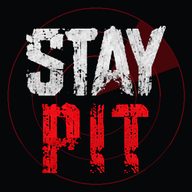
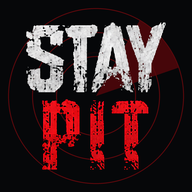
Icône STAYPIT recentrée verticalement
Claude-Session: https://claude.ai/code/session_01JEY3z9piJCXFyAaQnvY5d2

diff --git a/public/index.html b/public/index.html
@@ -1,5 +1,5 @@
 <!doctype html>
-<html lang="fr"><head><meta charset="utf-8"><meta name="viewport" content="width=device-width,initial-scale=1,viewport-fit=cover"><meta name="theme-color" content="#070809"><title>STAYPIT / Radar Metal</title><link rel="apple-touch-icon" href="/apple-touch-icon.png?v=6"><link rel="icon" type="image/png" sizes="32x32" href="/favicon-32.png?v=6"><link rel="manifest" href="/manifest.webmanifest"><meta name="apple-mobile-web-app-title" content="STAYPIT"><meta name="theme-color" content="#060709">
+<html lang="fr"><head><meta charset="utf-8"><meta name="viewport" content="width=device-width,initial-scale=1,viewport-fit=cover"><meta name="theme-color" content="#070809"><title>STAYPIT / Radar Metal</title><link rel="apple-touch-icon" href="/apple-touch-icon.png?v=7"><link rel="icon" type="image/png" sizes="32x32" href="/favicon-32.png?v=7"><link rel="manifest" href="/manifest.webmanifest"><meta name="apple-mobile-web-app-title" content="STAYPIT"><meta name="theme-color" content="#060709">
 <style>
 @import url('https://fonts.googleapis.com/css2?family=Barlow+Condensed:wght@500;600;700;800;900&family=Inter:wght@400;500;600;700;800&display=swap');
 :root{--bg:#050607;--panel:#0b0e12;--panel2:#0f1318;--line:#27303a;--red:#e50914;--red2:#ff2733;--white:#f5f5f5;--muted:#8e99a5;--soft:#c6ccd2;--max:1440px}
@@ -1467,7 +1467,7 @@ async function helpGo(view){helpView=view;const box=$('helpBody'),title=$('helpT
   box.innerHTML=back+(SL_STANDALONE?'<div class="sl-inst-done">✓ STAYPIT est déjà ouvert depuis ton écran d’accueil.</div>':'')
    +`<div class="sl-inst-tabs"><button type="button" class="${tab==='ios'?'on':''}" onclick="helpInstallTab='ios';helpGo('install')">iPhone / iPad</button><button type="button" class="${tab==='android'?'on':''}" onclick="helpInstallTab='android';helpGo('install')">Android</button></div>`
    +(tab==='ios'?ios:android)
-   +`<div class="sl-inst-res"><img src="/apple-touch-icon.png?v=6" alt=""><div><b>L’icône STAYPIT apparaît</b><small>Ouvre STAYPIT depuis cette icône : plein écran, sans barre du navigateur. Il faudra te reconnecter une fois.</small></div></div>`;return}
+   +`<div class="sl-inst-res"><img src="/apple-touch-icon.png?v=7" alt=""><div><b>L’icône STAYPIT apparaît</b><small>Ouvre STAYPIT depuis cette icône : plein écran, sans barre du navigateur. Il faudra te reconnecter une fois.</small></div></div>`;return}
  if(view==='write'){title.textContent='Nous écrire';
   box.innerHTML=back+`<form id="helpForm" class="sl-help-form" autocomplete="off"><label>Sujet</label><div class="sl-help-topics">${['Question','Bug','Idée','Autre'].map((t,i)=>`<button type="button" class="${i===0?'on':''}" data-t="${t}">${t}</button>`).join('')}</div><label for="helpMsg">Ton message</label><textarea id="helpMsg" rows="6" maxlength="3000" placeholder="Décris ta question ou le problème rencontré…"></textarea><button type="submit" class="sl-news-ok" id="helpSend">Envoyer</button><p class="sl-help-note">Tu retrouveras la réponse dans <b>Aide › Mes messages</b>. Tu peux aussi écrire à <a href="mailto:contact@stayloud-radar.online">contact@stayloud-radar.online</a>.</p></form>`;
   box.querySelectorAll('.sl-help-topics button').forEach(b=>b.onclick=()=>{box.querySelectorAll('.sl-help-topics button').forEach(x=>x.classList.toggle('on',x===b))});

diff --git a/public/sw.js b/public/sw.js
@@ -2,7 +2,7 @@
 // Pages: always from the network (latest version); a clear offline page otherwise.
 // Images / icons: served from the cache, refreshed in the background.
 // The API and other sites are never cached here.
-const CACHE='staypit-v7';
+const CACHE='staypit-v8';
 const SHELL=['/manifest.webmanifest','/icon-192.png','/icon-512.png','/apple-touch-icon.png','/favicon-32.png','/staypit-banner.jpg?v=4'];
 const OFFLINE=`<!doctype html><html lang="fr"><head><meta charset="utf-8"><meta name="viewport" content="width=device-width,initial-scale=1"><title>STAYPIT – hors ligne</title><style>body{margin:0;min-height:100vh;display:grid;place-items:center;background:#060709;color:#e8ebee;font:16px/1.5 Inter,Arial,sans-serif;text-align:center;padding:24px}img{width:96px;height:96px;border-radius:22px}h1{font-size:20px;margin:18px 0 6px}p{color:#8a939c;margin:0 0 18px}button{border:0;border-radius:999px;background:#e50914;color:#fff;font:700 15px Inter,Arial,sans-serif;padding:12px 22px}</style></head><body><div><img src="/icon-192.png" alt=""><h1>Pas de connexion</h1><p>STAYPIT a besoin d’Internet pour trouver les actus et les concerts.<br>Vérifie ta connexion puis réessaie.</p><button onclick="location.reload()">Réessayer</button></div></body></html>`;
 

diff --git a/docs/notes/V7.33.1-NOTES.md b/docs/notes/V7.33.1-NOTES.md
@@ -1,4 +1,5 @@
 # V7.33.1 — Lettres rouges plus nettes
 
 - Bannière et icônes : les lettres rouges « PIT » sont plus nettes (contours durcis et légère accentuation). Le graphisme d’origine est gardé.
-- Cache du service worker : `staypit-v7`.
+- Cache du service worker : `staypit-v8`.
+- Icône : lettres recentrées verticalement (même marge en haut et en bas).
